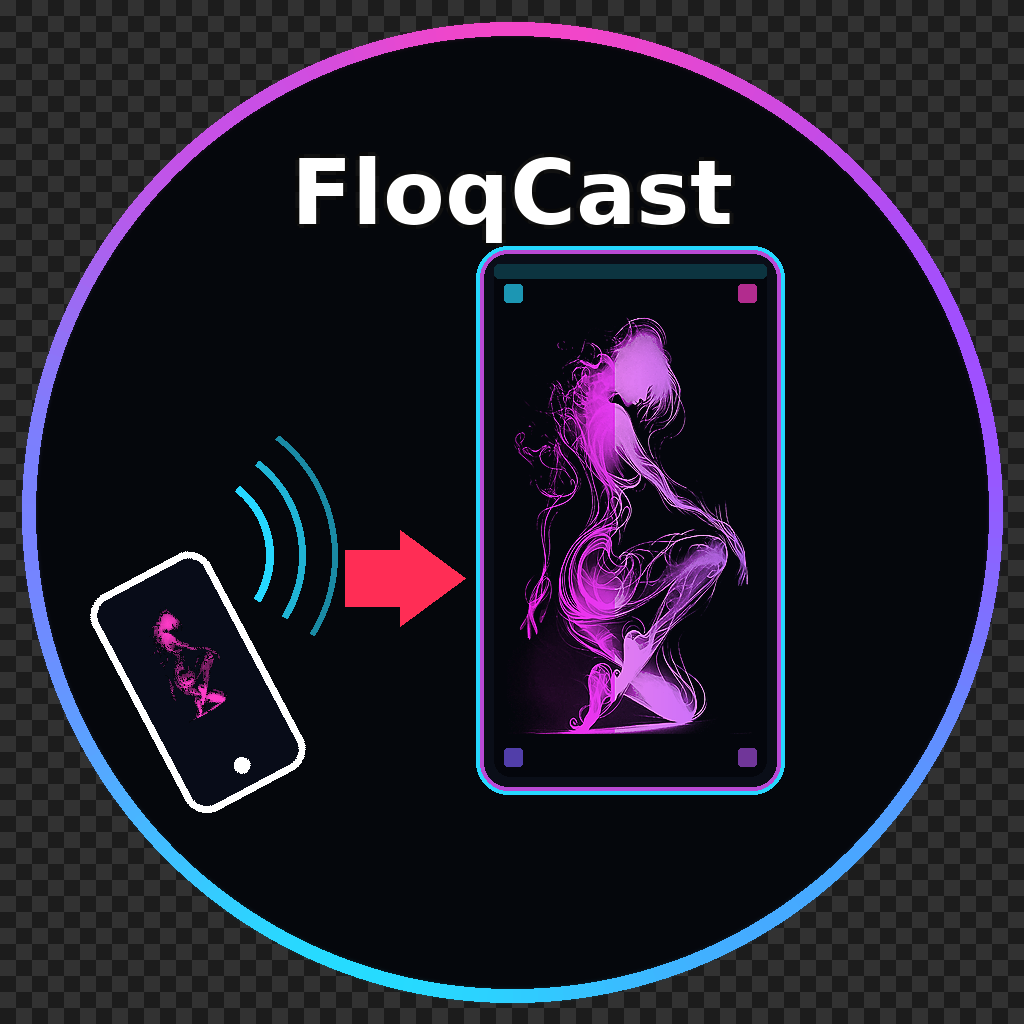
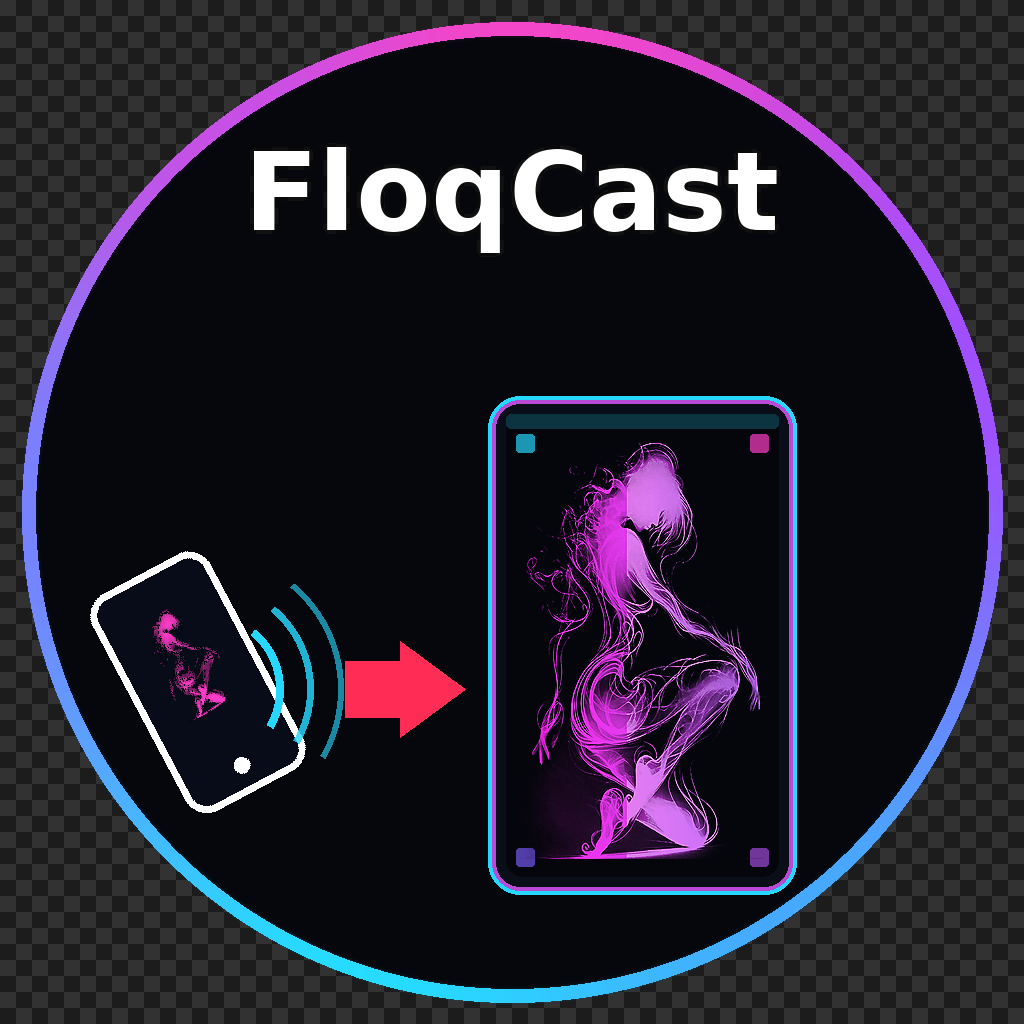
fix: FloqCast V4 LED lower, wordmark +10%, mid-phone signal
Drop the LED wall further, enlarge FloqCast to ~109px, and anchor
wireless arcs + cast arrow to the phone midpoint for the local V4 draft.

Changed region(s): [[0.2188, 0.125, 0.7812, 0.875]]

diff --git a/icon-review-square-green-halo.html b/icon-review-square-green-halo.html
@@ -105,14 +105,14 @@
       <h2>V4 — silhouette photo + cast chrome</h2>
       <p>
         Your silhouette cut out and neon-tinted into the LED + phone screens.
-        Transparent outside the nightlife ring. Portrait LED lowered; FloqCast text lowered and +15% larger;
-        cast arrow phone→LED. Hard refresh if the old mark is cached.
+        Transparent outside the nightlife ring. LED lower again; FloqCast +10% (now ~109px);
+        signal + arrow at mid-phone origin; cast arrow phone→LED. Hard refresh if cached.
       </p>
       <div class="row">
         <figure class="hero">
           <figcaption>V4 final draft <span class="tag next">silhouette source</span></figcaption>
           <div class="checker">
-            <img src="./images/review/actual-icons/floqcast-v4-circle-silhouette.png?v=4e" alt="FloqCast V4 silhouette circle"/>
+            <img src="./images/review/actual-icons/floqcast-v4-circle-silhouette.png?v=4g" alt="FloqCast V4 silhouette circle"/>
           </div>
         </figure>
         <figure>
